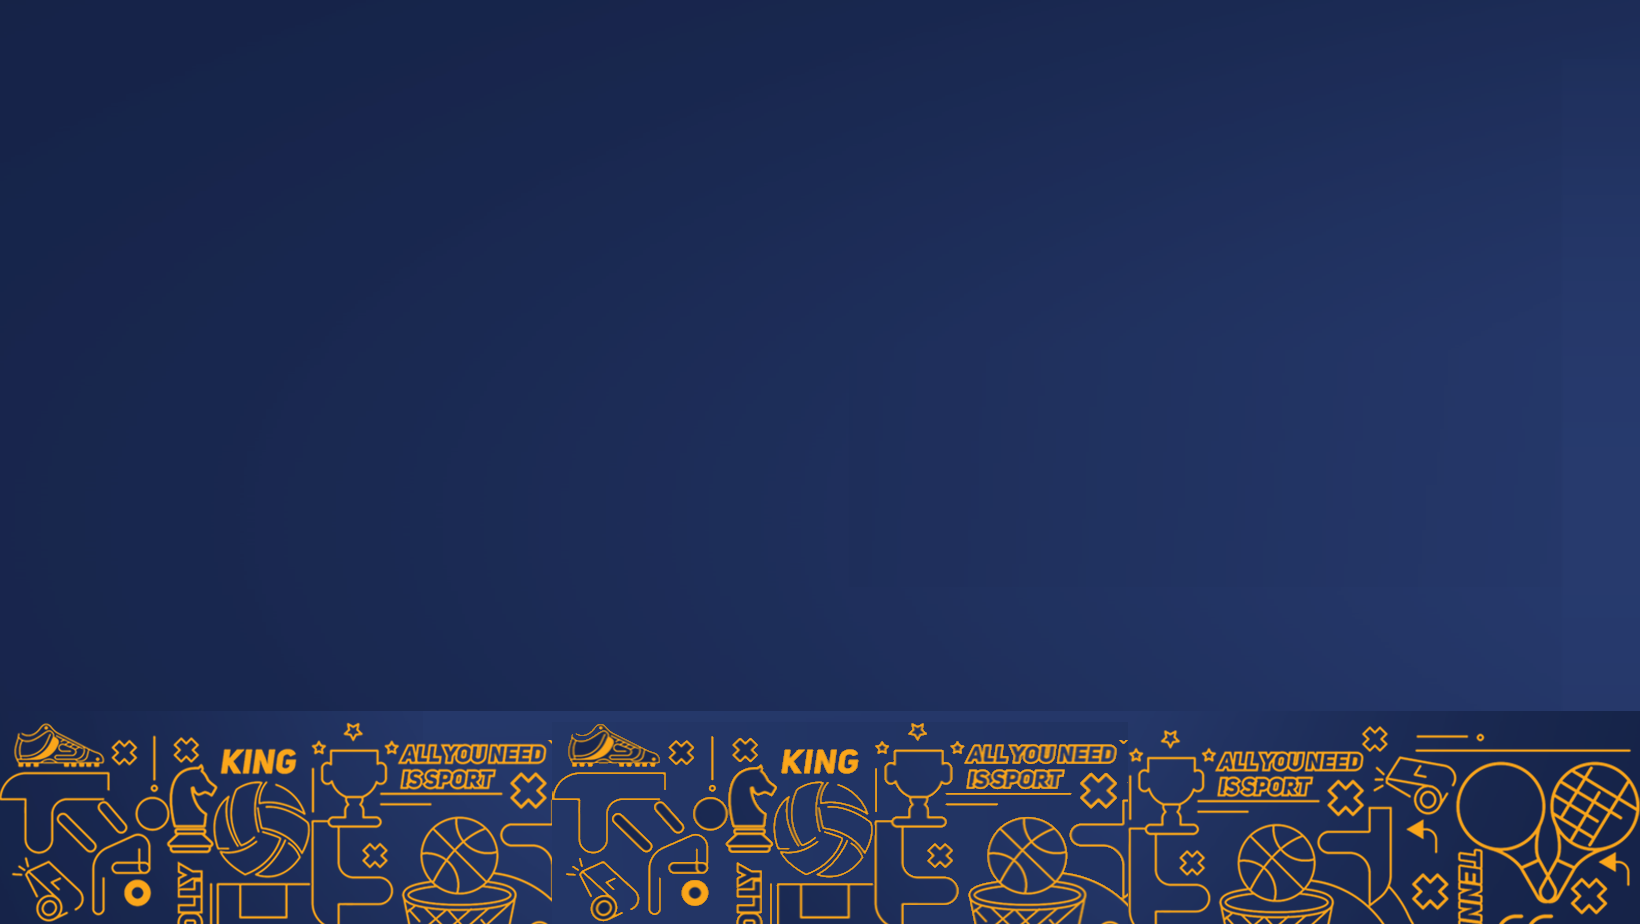
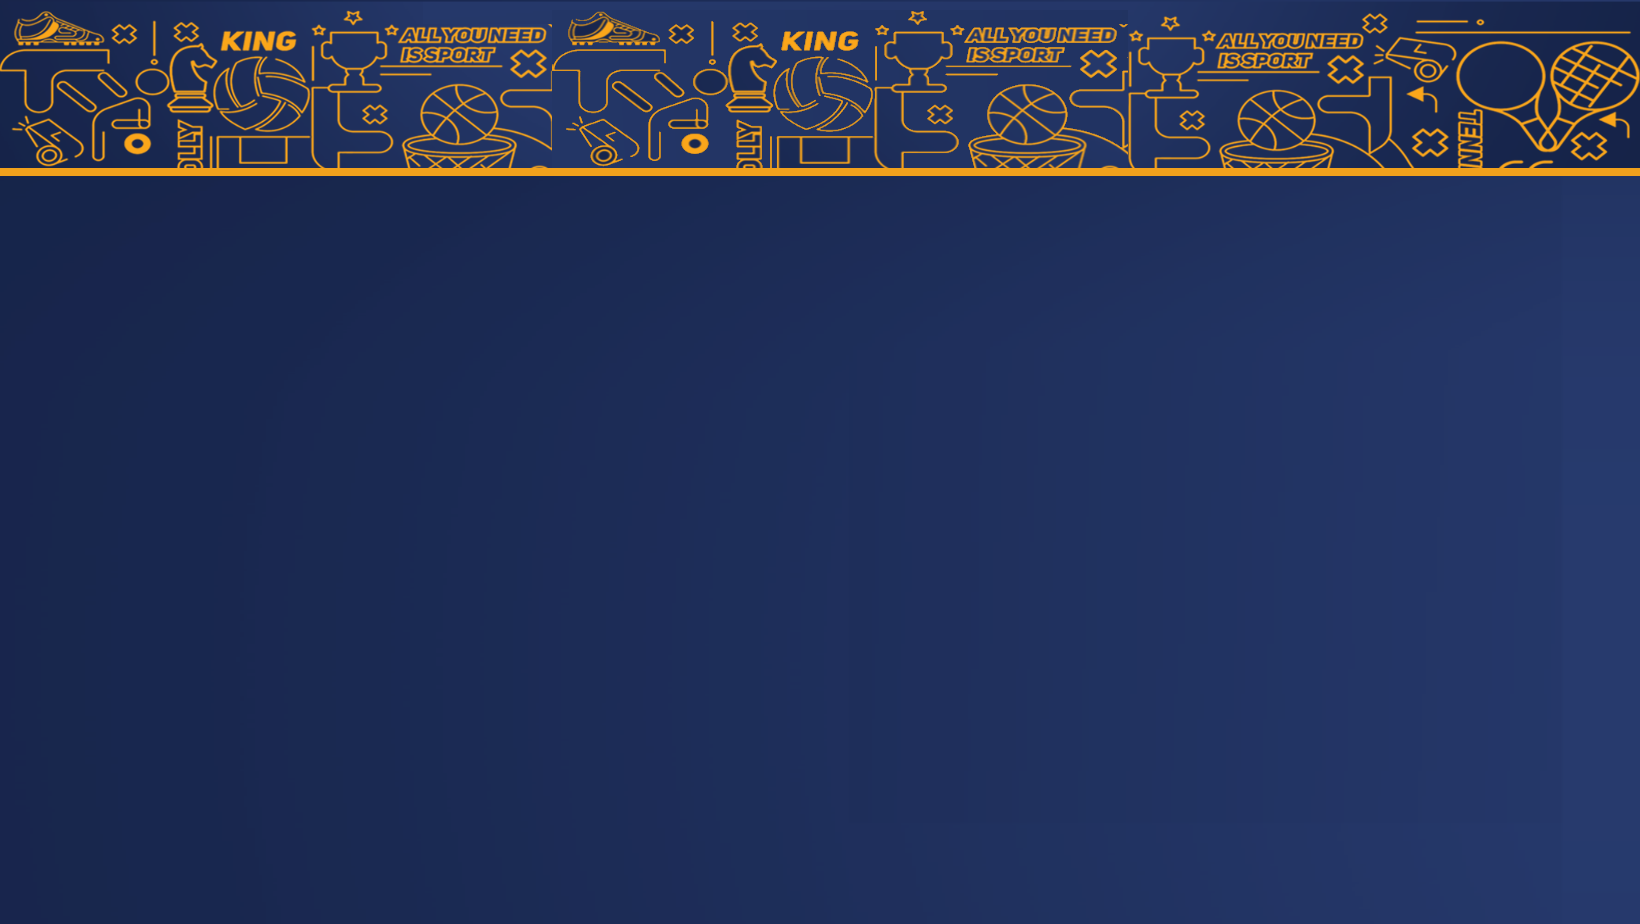
Resolve merge conflicts

Changed region(s): [[0.0, 0.7576, 1.0, 1.0], [0.0, 0.0, 1.0, 0.2121]]

diff --git a/hawar-website/src/Components/Footer.jsx b/hawar-website/src/Components/Footer.jsx
@@ -59,7 +59,7 @@ const Footer = () => {
 
   return (
     <footer
-      className="footer bg-center  text-white"
+      className="footer bg-top  text-white"
       style={{
         backgroundImage: `url(${footerBg})`,
         backgroundBlendMode: 'overlay',
@@ -67,7 +67,7 @@ const Footer = () => {
       }}
     >
       <div className="footer-top py-16">
-        <div className="container mx-auto px-4">
+        <div className="container   mt-32  xs:mt-64 mx-auto px-4">
           <div className="grid grid-cols-1 sm:grid-cols-2 lg:grid-cols-3 gap-8">
             <div className="contact-us">
               <h3 className="text-xl font-bold mb-4 text-hawar-orange">حول</h3>
@@ -203,7 +203,11 @@ const Footer = () => {
               </ul>
             </div>
           </div>
-          <div className="container mx-auto text-center font-bold mt-8 xs:mb-80">
+
+
+        </div>
+              <div className="copy-rights-section text-center ">
+          <div className="container mx-auto text-center font-bold ">
             <p className="text-white text-sm">
               <a
                 href="https://www.templateshub.net"
@@ -217,11 +221,9 @@ const Footer = () => {
           </div>
         </div>
 
-        <div className="copy-rights-section text-center mt-8 pb-16"></div>
-
         <button
           onClick={scrollToTop}
-          className={`fixed bottom-8 right-8 bg-hawar-orange text-white rounded-full p-4 shadow-lg hover:bg-hawar-blue-dark hover:text-hawar-orange transition-all duration-300 ${
+          className={`fixed bottom-8 xs:mb-12 right-8 bg-hawar-orange text-white rounded-full p-4 shadow-lg hover:bg-hawar-blue-dark hover:text-hawar-orange transition-all duration-300 ${
             visible ? 'opacity-100' : 'opacity-0 pointer-events-none'
           } animate-pulse`}
           aria-label="الرجوع للأعلى"
